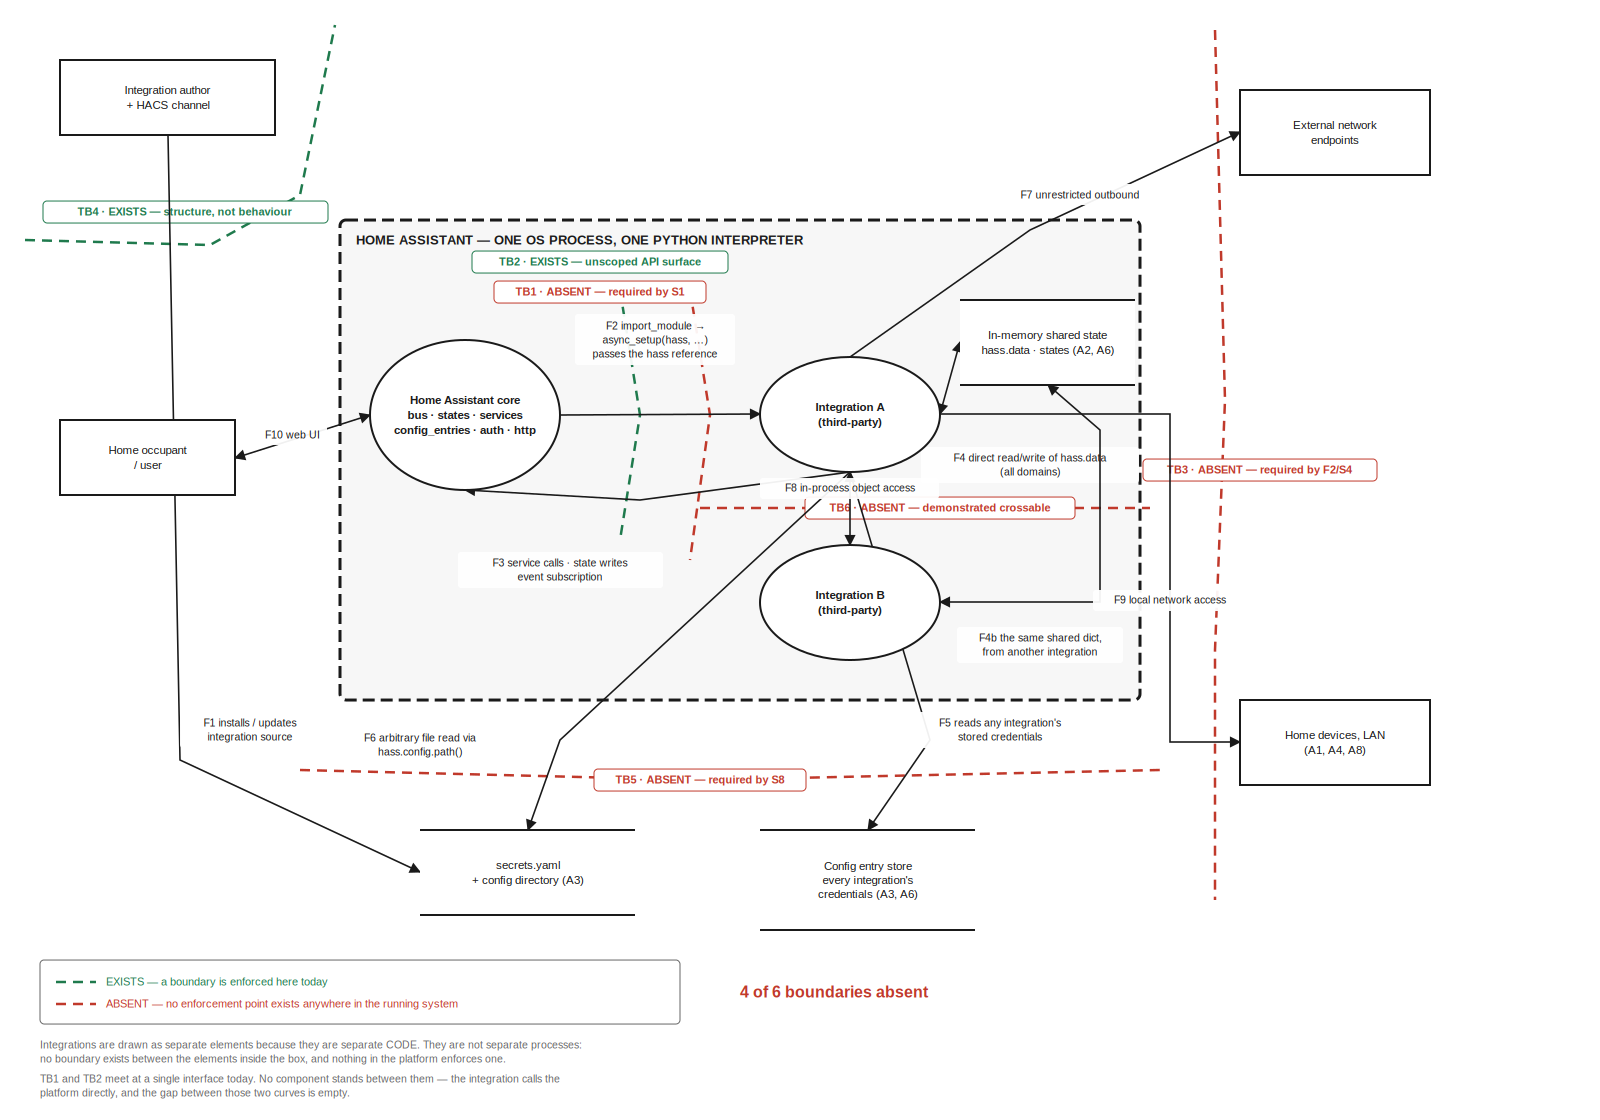
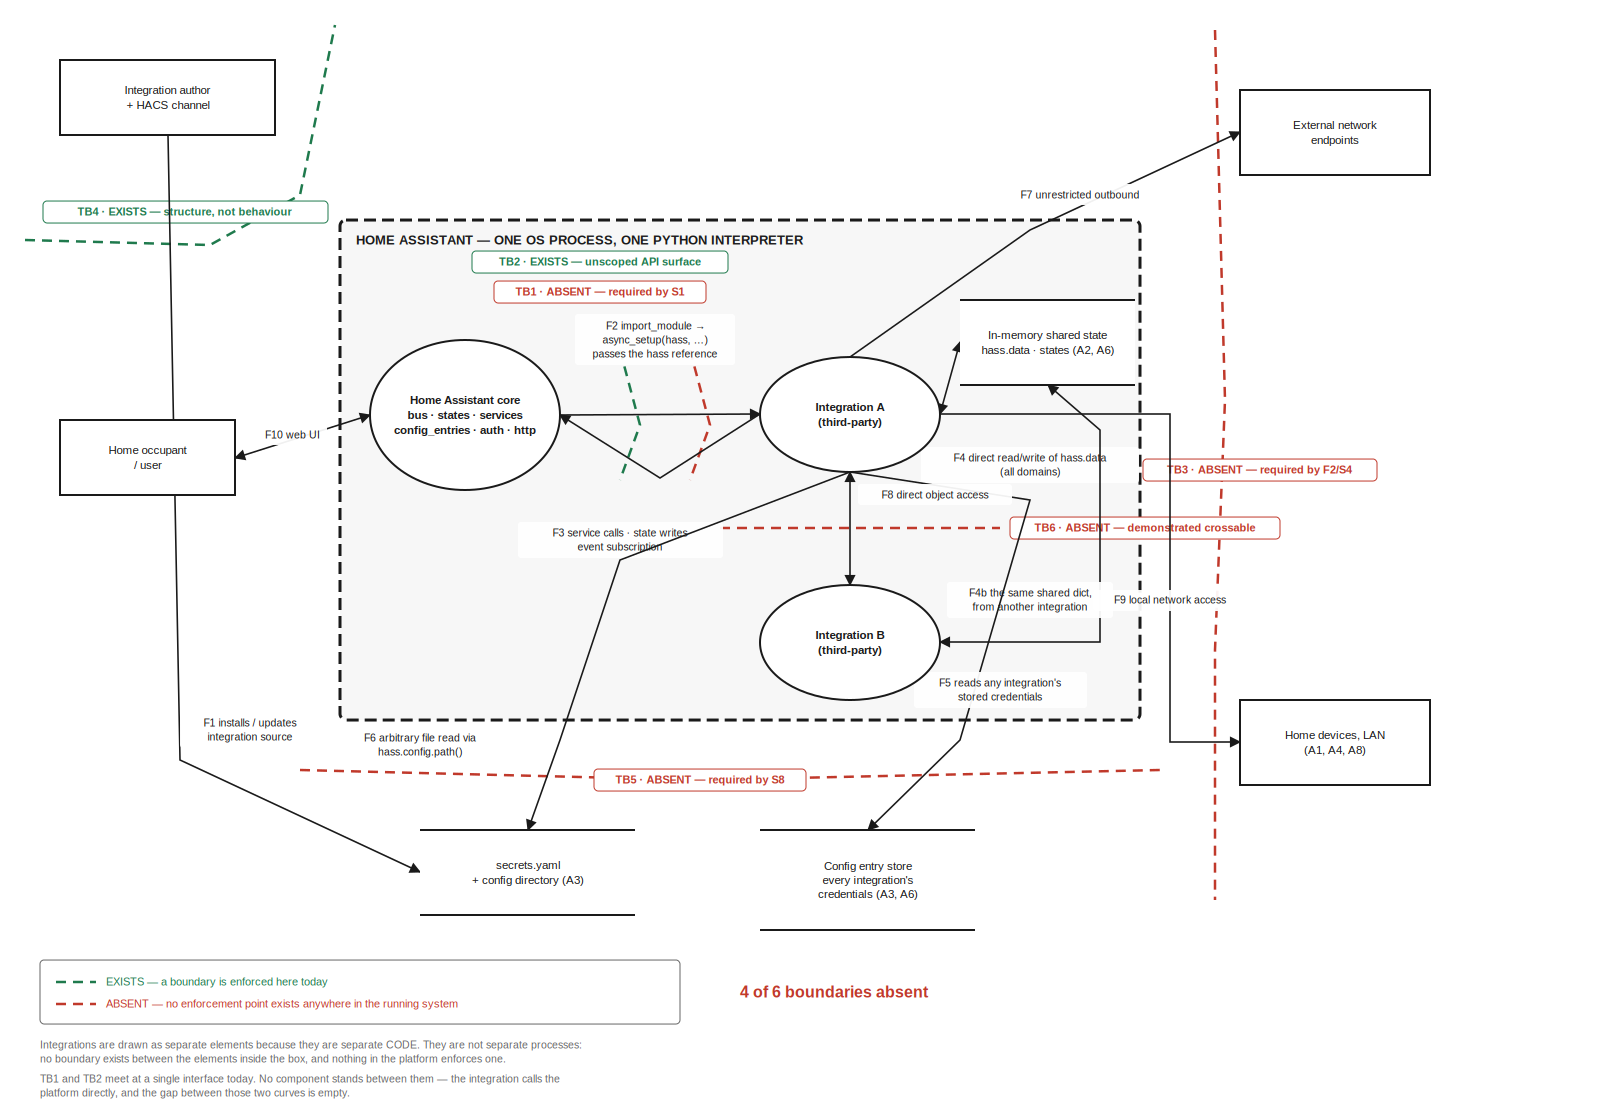
v2 fig 4.1: the A-to-B band was doing too much work in too little space
Four flows left Integration A by the same port and fanned out through a
73-pixel gap that also had to carry TB6 and two labels. Widened to 113,
and the flows now leave by different routes: F3 returns to the platform
by the left port as the second leg of the F2/F3 pair, F5 and F6 diverge
early to right and left.

What that buys is not just room. F8 is now the only flow crossing TB6,
which is what TB6 means — it is the only integration-to-integration
flow in the figure, and before, three unrelated arrows crossed it too.
TB6's label moved to the line's right end so it stops hiding the very
arrow that makes the point.

Content unchanged: same elements, same boundaries, same four absences,
still asserted before the file is written.

Changed region(s): [[0.2188, 0.375, 0.7812, 0.6875], [0.4375, 0.375, 0.4688, 0.4062]]

diff --git a/v2/figures/fig_4_1_current_state.py b/v2/figures/fig_4_1_current_state.py
@@ -48,7 +48,7 @@ NODES = [
     ("ha_core",  "process", "Home Assistant core\nbus · states · services\nconfig_entries · auth · http",
                                                                             370,  340, 190, 150),
     ("integ_a",  "process", "Integration A\n(third-party)",                  760,  357, 180, 115),
-    ("integ_b",  "process", "Integration B\n(third-party)",                  760,  545, 180, 115),
+    ("integ_b",  "process", "Integration B\n(third-party)",                  760,  585, 180, 115),
     ("mem",      "store",   "In-memory shared state\nhass.data · states (A2, A6)",
                                                                             960,  300, 175,  85),
     # --- on disk ------------------------------------------------------------------
@@ -61,7 +61,7 @@ NODES = [
 BOUNDARY_BOX = {
     "id": "ha_process",
     "label": "HOME ASSISTANT — ONE OS PROCESS, ONE PYTHON INTERPRETER",
-    "x": 340, "y": 220, "width": 800, "height": 480,
+    "x": 340, "y": 220, "width": 800, "height": 500,
 }
 
 # id: (name, source, target, [vertices], exists, label_xy)
@@ -71,15 +71,15 @@ BOUNDARIES = [
     ("tb4", "TB4 · EXISTS — structure, not behaviour",
      (25, 240), (335, 25), [(210, 245), (300, 195)], True, (185, 212)),
     ("tb2", "TB2 · EXISTS — unscoped API surface",
-     (620, 290), (620, 540), [(640, 415)], True, (600, 262)),
+     (620, 350), (620, 480), [(640, 425)], True, (600, 262)),
     ("tb1", "TB1 · ABSENT — required by S1",
-     (690, 290), (690, 560), [(710, 415)], False, (600, 292)),
+     (690, 350), (690, 480), [(710, 425)], False, (600, 292)),
     ("tb3", "TB3 · ABSENT — required by F2/S4",
      (1215, 30), (1215, 900), [(1225, 400), (1215, 650)], False, (1260, 470)),
     ("tb5", "TB5 · ABSENT — required by S8",
      (300, 770), (1160, 770), [(700, 780)], False, (700, 780)),
     ("tb6", "TB6 · ABSENT — demonstrated crossable",
-     (700, 508), (1150, 508), [(1000, 508)], False, (940, 508)),
+     (720, 528), (1000, 528), [(860, 528)], False, (1145, 528)),
 ]
 
 # (id, source, target, label, source_port, target_port, bidirectional, [vertices], label_xy)
@@ -89,19 +89,19 @@ FLOWS = [
     ("f2",  "ha_core", "integ_a", "F2  import_module →\nasync_setup(hass, …)\npasses the hass reference",
      "right",  "left",  False, [], (655, 340)),
     ("f3",  "integ_a", "ha_core", "F3  service calls · state writes\nevent subscription",
-     "bottom", "bottom", False, [(640, 500)], (560, 570)),
+     "left",   "right", False, [(660, 478)], (620, 540)),
     ("f4",  "integ_a", "mem",     "F4  direct read/write of hass.data\n(all domains)",
      "right",  "left",  True,  [], (1030, 465)),
     ("f4b", "integ_b", "mem",     "F4b  the same shared dict,\nfrom another integration",
-     "right",  "bottom", True, [(1100, 602), (1100, 430)], (1040, 645)),
+     "right",  "bottom", True, [(1100, 642), (1100, 430)], (1030, 600)),
     ("f5",  "integ_a", "entries", "F5  reads any integration's\nstored credentials",
-     "bottom", "top",   False, [(930, 740)], (1000, 730)),
+     "bottom", "top",   False, [(1030, 500), (960, 740)], (1000, 690)),
     ("f6",  "integ_a", "secrets", "F6  arbitrary file read via\nhass.config.path()",
-     "bottom", "top",   False, [(560, 740)], (420, 745)),
+     "bottom", "top",   False, [(620, 560), (560, 740)], (420, 745)),
     ("f7",  "integ_a", "extnet",  "F7  unrestricted outbound",
      "top",    "left",  False, [(1030, 230)], (1080, 195)),
-    ("f8",  "integ_a", "integ_b", "F8  in-process object access",
-     "bottom", "top",   True,  [], (850, 488)),
+    ("f8",  "integ_a", "integ_b", "F8  direct object access",
+     "bottom", "top",   True,  [], (935, 495)),
     ("f9",  "integ_a", "devices", "F9  local network access",
      "right",  "left",  False, [(1170, 414), (1170, 742)], (1170, 600)),
     ("f10", "user",    "ha_core", "F10  web UI",

diff --git a/v2/notes/ch4_figure_4_1_spec.md b/v2/notes/ch4_figure_4_1_spec.md
@@ -260,6 +260,13 @@ worth keeping, put it in the script.
    §4.6's six boundaries is "user ↔ platform". The user is AC5 — a source of risk through
    action, not an external attacker — and inventing a boundary for that flow would have put
    the figure ahead of the chapter.
+4. **The Integration A ↔ B band was rebuilt** after review, 2026-08-24. Four flows left
+   Integration A by the same bottom port and fanned out through a 73-pixel gap that also
+   carried TB6 and two labels. The band is now 113 pixels; F3 returns to the platform by
+   the left port as a bowed second leg of the F2/F3 pair; F5 and F6 diverge early, right
+   and left; and **F8 is the only flow that crosses TB6**, which is correct — it is the
+   only integration-to-integration flow. TB6's label sits at the line's right end so it
+   never hides F8's arrow. Nothing about the figure's content changed, only its legibility.
 
 **Checks before committing a change** — each catches a specific way this figure could
 mislead:
